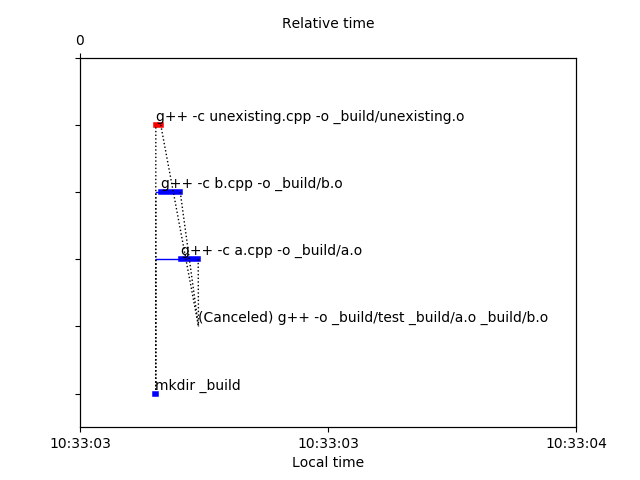
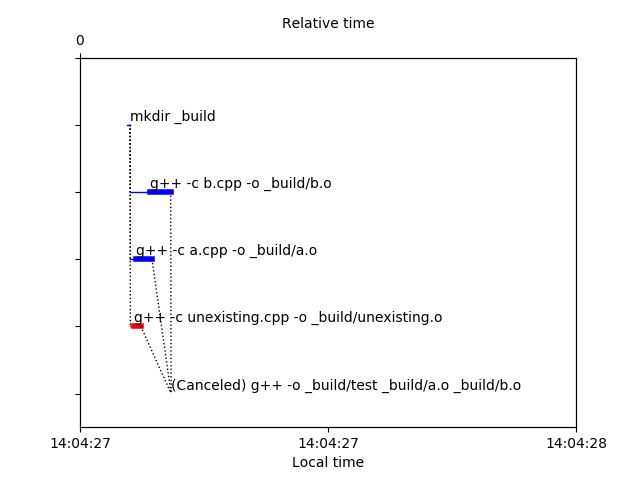
Sort actions in Gantt chart

diff --git a/ActionTree/__init__.py b/ActionTree/__init__.py
@@ -362,7 +362,8 @@ class ExecutionReport(object):
             """
             return self.__output
 
-    def __init__(self, actions, now):
+    def __init__(self, root_action, actions, now):
+        self._root_action = root_action
         self.__action_statuses = {action: self.ActionStatus(now) for action in actions}
 
     @property
@@ -440,11 +441,33 @@ class GanttChart(object):  # pragma no cover (Too difficult to unit test)
     """
 
     def __init__(self, report):
-        # @todo Sort actions somehow to improve readability (top-left to bottom-right)
         self.__actions = {
             id(action): self.__make_action(action, status)
             for (action, status) in report.get_actions_and_statuses()
         }
+
+        self.__ordinates = {}
+
+        dependents = {}
+        for (action, _) in report.get_actions_and_statuses():
+            dependents.setdefault(action, set())
+            for dependency in action.dependencies:
+                dependents.setdefault(dependency, set()).add(action)
+
+        def compute(action, ordinate):
+            self.__ordinates[id(action)] = len(self.__actions) - ordinate
+            for d in sorted(
+                action.dependencies,
+                key=lambda d: report.get_action_status(d).success_time or report.get_action_status(d).failure_time
+            ):
+                if len(dependents[d]) == 1:
+                    ordinate = compute(d, ordinate - 1)
+                else:
+                    dependents[d].remove(action)
+            return ordinate
+
+        last_ordinate = compute(report._root_action, len(self.__actions) - 1)
+        assert last_ordinate == 0, last_ordinate
 
     # @todo Factorize Actions
     class SuccessfulAction(object):
@@ -587,10 +610,8 @@ class GanttChart(object):  # pragma no cover (Too difficult to unit test)
 
         See also :meth:`write_to_png` and :meth:`get_mpl_figure` for the simpler use-cases.
         """
-        ordinates = {ident: len(self.__actions) - i for (i, ident) in enumerate(self.__actions.iterkeys())}
-
         for action in self.__actions.itervalues():
-            action.draw(ax, ordinates, self.__actions)
+            action.draw(ax, self.__ordinates, self.__actions)
 
         ax.get_yaxis().set_ticklabels([])
         ax.set_ylim(0.5, len(self.__actions) + 1)
@@ -727,6 +748,7 @@ class _PicklingExceptionEvent(_Event):
 
 class _Execution(object):
     def __init__(self, jobs, keep_going, do_raise, hooks, action):
+        self.root_action = action
         self.events = multiprocessing.Queue()
         self.jobs = jobs
         self.keep_going = keep_going
@@ -742,7 +764,7 @@ class _Execution(object):
 
     def run(self):
         now = datetime.datetime.now()
-        self.report = ExecutionReport(self.pending, now)
+        self.report = ExecutionReport(self.root_action, self.pending, now)
         for action in self.pending:
             self.hooks.action_pending(now, action)
         while self.pending or self.submitted:
